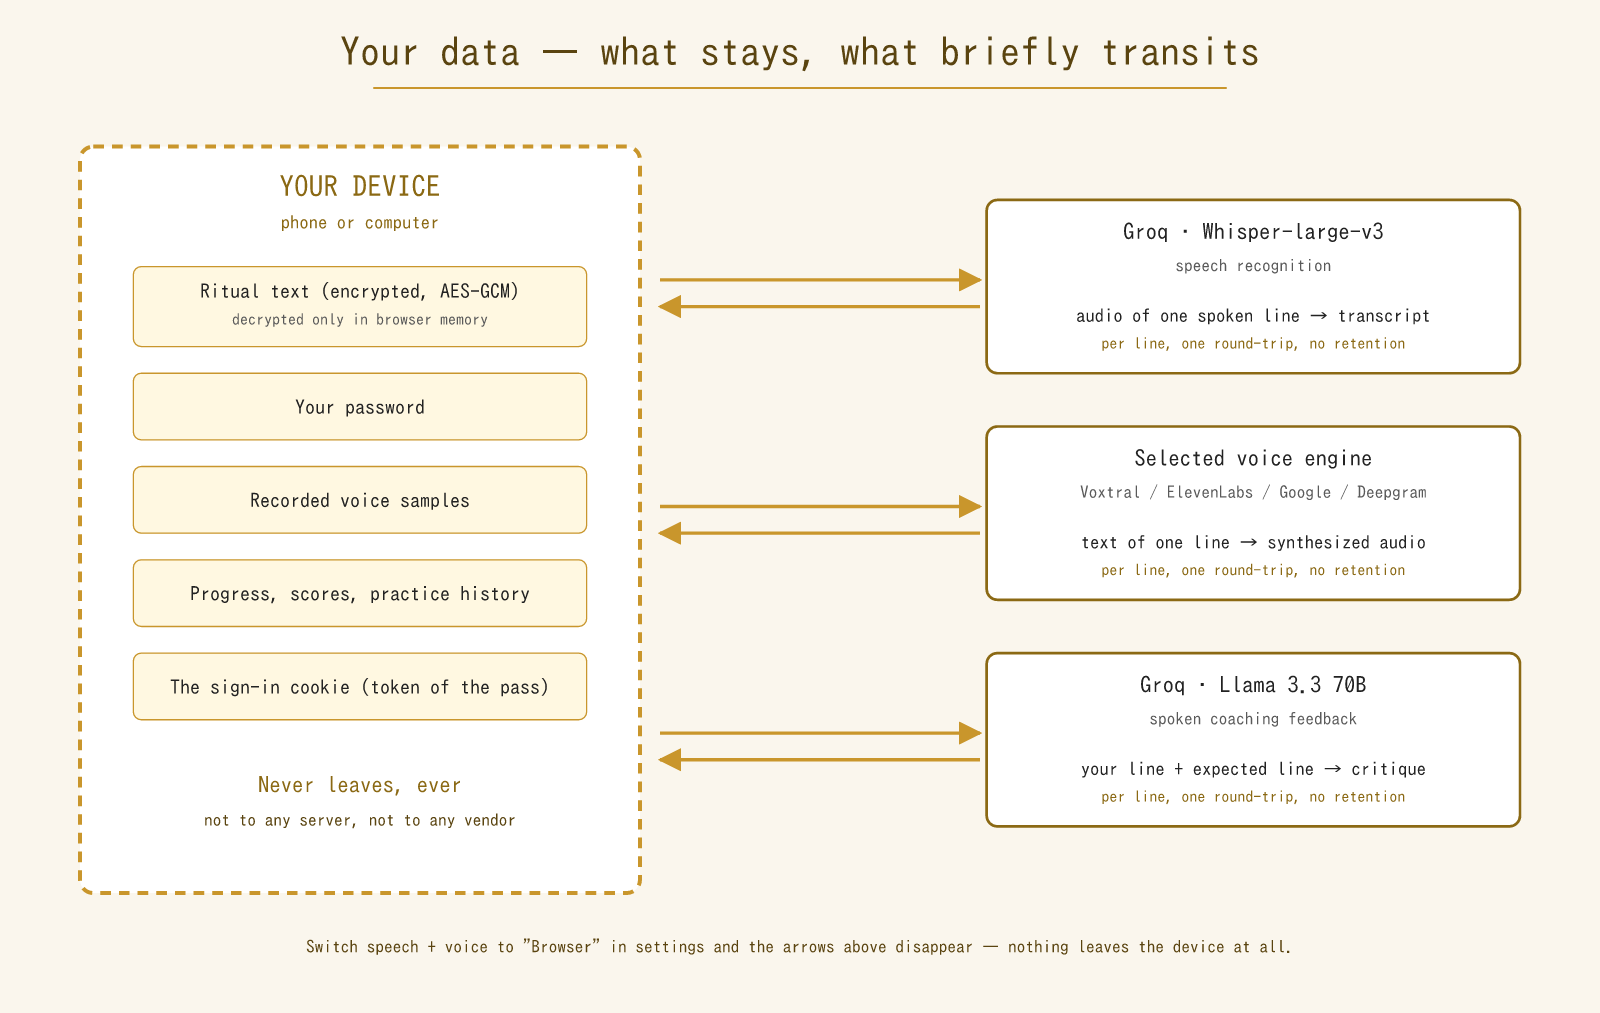
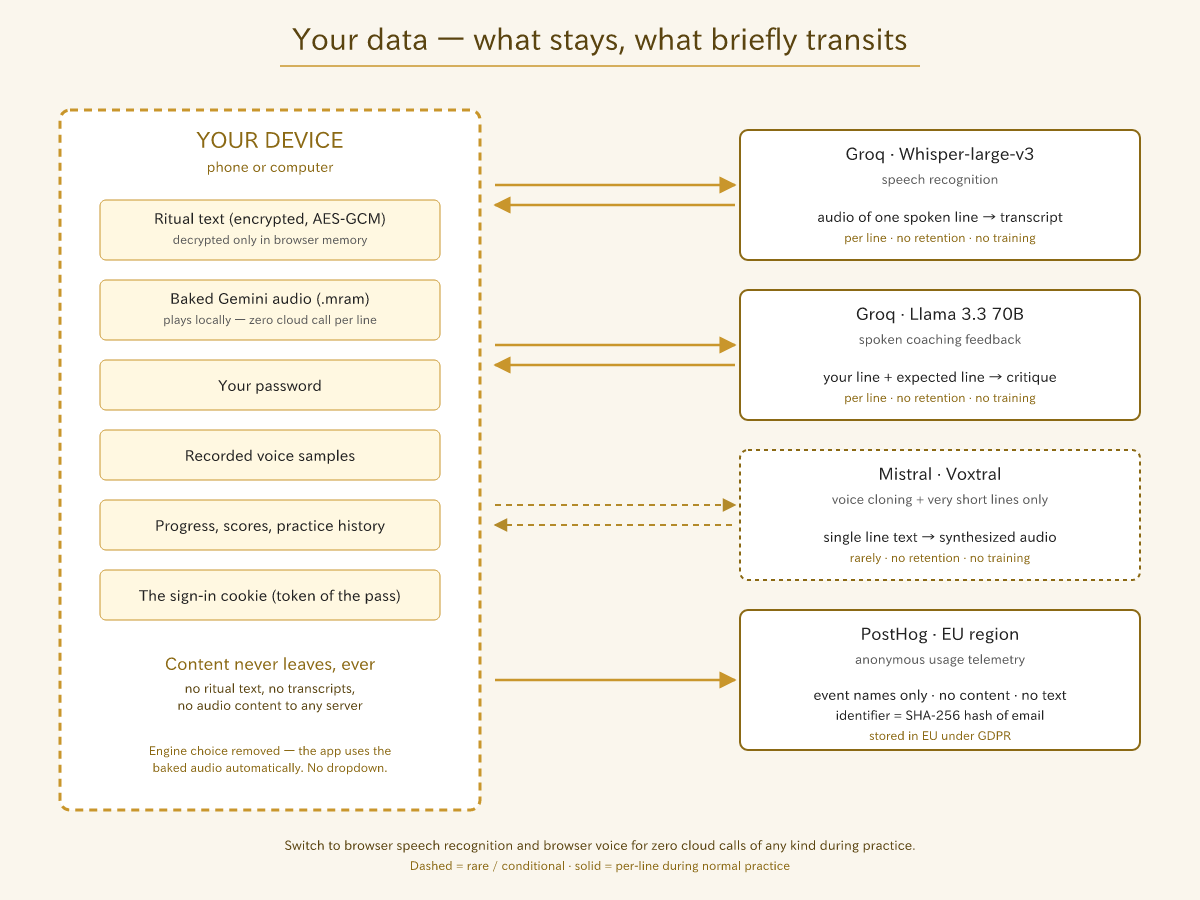
docs(pilot-email): reflect baked audio + safety floor + posthog telemetry
Email content and data-flow diagram drifted from current architecture.

Email body:
- Rewrite voice section: engine dropdown removed, Gemini audio now
  pre-baked into .mram at build time (zero cloud call during playback),
  Voxtral used only for voice-clone + very short lines
- Add anonymous usage telemetry subsection: event names only, SHA-256
  hashed email identifier, PostHog EU region
- Fix "no analytics" claim that contradicted live telemetry
- Add cost and abuse protection section: per-brother daily caps,
  burst rate limits, emergency kill-switch, daily spend-alert,
  degraded-mode banner, defense-in-depth auth
- Update "what transits the cloud" list: Groq + rare Voxtral + PostHog
- Update install-guide privacy summary and troubleshooting section

Diagram (data-flow.svg/png):
- Add "Baked Gemini audio (.mram)" to device-side items
- Replace "Selected voice engine" with Mistral Voxtral (dashed border
  and dashed arrow to signal "rare / conditional")
- Add PostHog box (one-way arrow, event names only)
- Update subtitle, footer legend

diff --git a/docs/pilot-email.html b/docs/pilot-email.html
@@ -61,21 +61,20 @@
 
 <p>When you speak, the app sends your audio to <strong>OpenAI Whisper-large-v3</strong> (running on Groq's hardware for near-instant response) with a vocabulary hint that primes the model for ritual terms — <em>Worshipful Master</em>, <em>Tyler</em>, <em>Jachin</em>, <em>Boaz</em>, <em>Fellowcraft</em>, and so on. If Whisper isn't reachable, it falls back automatically to your browser's built-in recognition.</p>
 
-<h3 style="font-family: Georgia, 'Times New Roman', serif; color: #5a4410; margin-top: 24px;">Seven voice engines, including expressive AI voices and voice cloning</h3>
+<h3 style="font-family: Georgia, 'Times New Roman', serif; color: #5a4410; margin-top: 24px;">Voice playback — baked in, not streamed</h3>
 
-<p>Any of seven text-to-speech engines can read the ritual aloud:</p>
+<p>Earlier iterations of this app let you pick from a dropdown of seven text-to-speech engines. That option is gone. The architecture got better.</p>
+
+<p>Your lodge's <code>.mram</code> file now ships with the <strong>Google Gemini 3.1 Flash TTS</strong> voice already rendered into it — each officer's lines pre-baked into audio at build time, per role, with the right cadence direction (<code>[slow, solemn]</code>, <code>[measured]</code>, and so on) embedded in the source. When you press play during rehearsal, the audio streams straight from the file on your device. <strong>No cloud voice call is made during playback.</strong> That's a stronger privacy posture than the old "pick your engine" flow, and it's faster — no network round-trip per line.</p>
+
+<p>Two narrow cases still use a live cloud voice:</p>
 
 <ul>
-  <li><strong>Google Gemini 3.1 Flash TTS</strong> <em>(default)</em> — Google's newest expressive voice model, released April 15, 2026. Per-officer male voices with prompt-driven direction (gravely, reverent, commanding). When the daily quota fills up, the app silently falls through to two older Gemini models so playback keeps working.</li>
-  <li><strong>Mistral Voxtral</strong> — supports <strong>zero-shot voice cloning</strong>. Record a short sample of a brother speaking and the app will read <em>his</em> officer's lines in <em>his</em> voice. No paid "voice clone" tier required. Ships with 15 character voices in the pool as backup.</li>
-  <li><strong>ElevenLabs</strong> — twelve distinct male voices, one per officer chair.</li>
-  <li><strong>Google Cloud Neural2</strong> — per-role voice, pitch, and rate tuning so the Worshipful Master sounds deeper than the Tyler.</li>
-  <li><strong>Deepgram Aura-2</strong> — seven mythologically-named voices (Zeus, Orion, Arcas, and so on).</li>
-  <li><strong>Kokoro</strong> — a self-hosted option with no cloud dependency.</li>
-  <li><strong>Browser built-in</strong> — always works, even offline.</li>
+  <li><strong>Voice cloning (optional).</strong> If you've recorded a short sample of a brother — say, a Past Master whose delivery you want to emulate — the app uses <strong>Mistral Voxtral</strong> to read lines in that voice. Zero-shot cloning, no paid "voice clone" tier required.</li>
+  <li><strong>Very short lines.</strong> Gemini has a minimum duration below which short phrases clip awkwardly. For those (a one-word response, a signal word), Voxtral handles synthesis on the fly and produces cleaner results on short clips.</li>
 </ul>
 
-<p>If a cloud engine is down or rate-limited, the app automatically falls through the chain (Gemini → Voxtral → Google Cloud → browser) so you never hit a dead end during practice.</p>
+<p>Gemini sits at the top of the Artificial Analysis TTS quality leaderboard (Elo 1,211), supports 70+ languages, and watermarks every clip with SynthID. The pre-baking runs on my build machine before your file is sent to you, so the API quota burn is mine, not yours.</p>
 
 <h3 style="font-family: Georgia, 'Times New Roman', serif; color: #5a4410; margin-top: 24px;">Five-layer feedback, not just text matching</h3>
 
@@ -91,16 +90,13 @@
 
 <p>After the diff, a large language model (Llama 3.3 70B via Groq) generates a short spoken coaching response — brief, contextual, and streamed to you as you listen.</p>
 
-<h3 style="font-family: Georgia, 'Times New Roman', serif; color: #5a4410; margin-top: 24px;">Why Gemini is now the default voice — and what's still coming</h3>
+<h3 style="font-family: Georgia, 'Times New Roman', serif; color: #5a4410; margin-top: 24px;">Why delivery matters — and how Gemini solves it</h3>
 
-<p>Today's default voice engine fixes the one thing earlier text-to-speech still got wrong for ritual work: <em>delivery.</em> A flat, evenly-paced reading is fine for a shopping list — it is not fine for the gravitas of an obligation or the cadence of a lecture.</p>
+<p>Gemini fixes the one thing earlier text-to-speech still got wrong for ritual work: <em>delivery.</em> A flat, evenly-paced reading is fine for a shopping list — it's not fine for the gravitas of an obligation or the cadence of a lecture.</p>
 
-<ul>
-  <li><strong>Google Gemini 3.1 Flash TTS</strong> (now shipping as the app's default). Google released this model on April 15, 2026 — a few days before this email went out. It accepts inline <em>audio tags</em> — short bracketed directions like <code>[slow, solemn]</code> or <code>[whispered]</code> — that steer style, pace, and emotion at any point mid-sentence. That means the ritual text itself can pre-mark the cadence shifts the work already calls for, and the voice engine will honor them. It currently sits at the top of the Artificial Analysis TTS quality leaderboard (Elo 1,211), supports 70+ languages, and watermarks every clip with SynthID.</li>
-  <li><strong>Microsoft Azure Dragon HD / Neural HD 2.5</strong> (rolling out early-to-mid 2026 — not yet wired in). Microsoft's new HD line is LLM-based: the model reads the <em>meaning</em> of each line and adjusts emotional tone automatically — measured pause at a solemn passage, lift at a welcome, weight at a charge — without any manual markup at all. A unified model covering 700+ voices, with wider availability and a significant price drop arriving in March 2026. We will add it to the seven-engine dropdown when the public API lands.</li>
-</ul>
+<p>Gemini 3.1 Flash TTS (released April 15, 2026) accepts inline <em>audio tags</em> — short bracketed directions like <code>[slow, solemn]</code> or <code>[whispered]</code> — that steer style, pace, and emotion at any point mid-sentence. The ritual source pre-marks the cadence shifts the work already calls for, and the voice engine honors them. The result is a reading that actually sounds like a Brother doing the work, not a satnav reciting an obligation.</p>
 
-<p>Gemini is live in the dropdown today and serves as the playback engine for every officer line by default. Voxtral, ElevenLabs, Deepgram, Google Cloud, Kokoro, and the browser engine are still selectable as alternatives or fallbacks — the ritual will <em>sound</em> like ritual either way.</p>
+<p><strong>Coming later:</strong> Microsoft's Azure Dragon HD / Neural HD 2.5 (rolling out mid-2026) is LLM-based — the model reads the <em>meaning</em> of each line and adjusts emotional tone automatically, no manual markup needed. When the public API lands I'll rebuild the .mram files against it and you'll get the upgrade for free by re-downloading your ritual file.</p>
 
 <h2 style="font-family: Georgia, 'Times New Roman', serif; color: #8b6914; border-bottom: 1px solid #c9962c; padding-bottom: 6px; margin-top: 32px;">Your data — what leaves your device, and what doesn't</h2>
 
@@ -116,7 +112,18 @@
   <li><strong>The ritual text itself.</strong> Encrypted with <strong>AES-GCM</strong> via the browser's Web Crypto API and stored in your device's local IndexedDB. Decrypted only in memory while you are practicing. Never written to disk unencrypted. <strong>Never sent to any server, at any time, for any reason.</strong></li>
   <li><strong>Your password.</strong> Used to derive the decryption key right there in your browser. Never transmitted anywhere.</li>
   <li><strong>Any voice samples you record</strong> for the voice-cloning feature. Kept locally in IndexedDB.</li>
-  <li><strong>Your progress, scores, and practice history.</strong> Local only. No analytics.</li>
+  <li><strong>Your progress, scores, and practice history.</strong> Stored locally in your browser only. The <em>content</em> of your practice — which line you were on, what you said, what score you got — never leaves your device.</li>
+</ul>
+
+<h3 style="font-family: Georgia, 'Times New Roman', serif; color: #5a4410; margin-top: 24px;">Anonymous usage telemetry — event names only, no content</h3>
+
+<p>The app records a small, anonymized stream of <em>usage events</em> — things like "a rehearsal started," "a ritual file was uploaded," "a coaching response was played" — so I can see whether the pilot is being used and catch errors early. This stream is deliberately constructed to carry <strong>no ritual content of any kind</strong>:</p>
+
+<ul>
+  <li><strong>Event names only.</strong> A fixed TypeScript-enforced list of event labels like <code>rehearsal_completed</code>, <code>line_attempted</code>, <code>feedback_stream_error</code>. The event payload has no free-text fields. It is structurally impossible to leak ritual text through it.</li>
+  <li><strong>Hashed email identifier.</strong> Your email is one-way-hashed (SHA-256) before it is sent. The telemetry sees a string of gibberish characters that can be compared across events ("this is the same brother") but cannot be reversed back to the email.</li>
+  <li><strong>Hosted in the EU.</strong> The telemetry vendor is PostHog, and the pilot uses their EU region (<code>eu.i.posthog.com</code>) — data stays in Europe under GDPR.</li>
+  <li><strong>No transcripts, no ritual text, no audio.</strong> The paid cloud services (Groq, and Mistral Voxtral for the voice-clone case) see the specific line you just spoke for a second while they answer the request, then discard it under a no-retention contract. The telemetry stream sees <em>only</em> the event that a rehearsal happened — never what was said.</li>
 </ul>
 
 <h3 style="font-family: Georgia, 'Times New Roman', serif; color: #5a4410; margin-top: 24px;">The sign-in cookie — the token of the pass</h3>
@@ -154,11 +161,11 @@
 
 <ul>
   <li><strong>The audio of the line you just spoke</strong> — sent to Groq's Whisper service to transcribe. A few seconds of audio per line.</li>
-  <li><strong>The text of the line about to be spoken</strong> — sent to whichever voice engine you have selected (Voxtral, ElevenLabs, Google, or Deepgram) to synthesize the sound. A single sentence at a time.</li>
   <li><strong>Your transcribed line and the expected line</strong> — sent to Groq's Llama service for the spoken coaching feedback.</li>
+  <li><strong>(Rarely) the text of a single line</strong> — sent to Mistral Voxtral only when you're using a voice-clone or the line is too short for the baked Gemini audio. Most lines play from the pre-baked audio in your <code>.mram</code> file and make no cloud call at all.</li>
 </ul>
 
-<p>Each of these is a single round-trip per line, answered in under a second, and the cloud service does not keep it. All four vendors — <strong>Groq, Mistral, Google Cloud, and Deepgram</strong> — contractually guarantee no retention and no training on request data. No one at those companies sees or stores your ritual.</p>
+<p>Each of these is a single round-trip per line, answered in under a second, and the cloud service does not keep it. <strong>Groq</strong> and <strong>Mistral</strong> — the two vendors the rehearsal flow actually calls — contractually guarantee no retention and no training on request data. No one at those companies sees or stores your ritual. The anonymous usage telemetry above also goes to <strong>PostHog</strong> (EU region), which does store its data but only sees event names, never content.</p>
 
 <h3 style="font-family: Georgia, 'Times New Roman', serif; color: #5a4410; margin-top: 24px;">For complete on-device privacy</h3>
 
@@ -170,6 +177,21 @@
 </ul>
 
 <p>With these two selected, <strong>nothing — not audio, not text, not feedback — ever leaves your device.</strong> The voices are less natural and the recognition is a little less accurate, but the privacy guarantee is absolute.</p>
+
+<h2 style="font-family: Georgia, 'Times New Roman', serif; color: #8b6914; border-bottom: 1px solid #c9962c; padding-bottom: 6px; margin-top: 32px;">Cost and abuse protection — practice freely, without the app exploding</h2>
+
+<p>The transcription and coaching feedback use paid cloud services (Groq, occasionally Mistral). Without guardrails, a single compromised sign-in cookie could run up a bill fast. Several layers keep that from happening:</p>
+
+<ul>
+  <li><strong>Per-brother daily caps.</strong> Each sign-in gets a generous daily quota of transcription and coaching calls — enough to rehearse as hard as any brother should ever want to — after which the app pauses further paid calls until midnight. You will never see this unless you actively try to hit it.</li>
+  <li><strong>Short-burst rate limits.</strong> On top of the daily cap, a separate counter prevents rapid-fire abuse (e.g. a script hammering the feedback endpoint in a loop). Normal human pacing doesn't come close.</li>
+  <li><strong>Emergency kill-switch.</strong> A single environment setting I control turns every paid feature off site-wide in seconds. If an API key leaks, if costs spike unexpectedly, if anything goes sideways, the app gracefully degrades to browser-only voice and browser-only speech recognition — the work still goes on, just without cloud polish — while I investigate.</li>
+  <li><strong>Daily spend-alert email.</strong> An automated job runs once a day and emails me if spending has crossed a threshold. I find out before anything gets out of hand, not after.</li>
+  <li><strong>Degraded-mode banner.</strong> If any cloud service is down, throttled, or returning errors, the app shows a clear banner explaining what's happening and automatically falls back to the baked voice / browser speech recognition. You never hit a silent dead-end mid-practice.</li>
+  <li><strong>Defense-in-depth.</strong> Every paid endpoint re-verifies your sign-in cookie itself, in addition to the gateway check that happens earlier in the request. A future bug in the gateway cannot accidentally expose paid routes to anonymous traffic.</li>
+</ul>
+
+<p>The practical upshot: you can use the app hard and I won't need to beg for donations.</p>
 
 <h2 style="font-family: Georgia, 'Times New Roman', serif; color: #8b6914; border-bottom: 1px solid #c9962c; padding-bottom: 6px; margin-top: 32px;">See the code for yourself</h2>
 
@@ -316,8 +338,9 @@
   <li>Your ritual file is encrypted. Without the password, it cannot be read.</li>
   <li>Decryption happens in your browser, on your device. The server never sees the decrypted ritual.</li>
   <li>The app never stores your ritual on any server, ever.</li>
-  <li>When you speak a line and the app evaluates it, or if it needs to read a line with a cloud voice it hasn't played before, small pieces of text and audio are sent briefly to voice/AI services (Google Gemini, Voxtral, Groq). These services have no-retention policies — they do not save or train on the data.</li>
-  <li>For this pilot, most ritual audio is pre-rendered and embedded inside your <code>.mram</code> file. When the app plays a line from a baked file, no cloud service is called at all — the audio is already on your device.</li>
+  <li>Most ritual audio is pre-rendered (at build time) and embedded inside your <code>.mram</code> file. When the app plays a baked line, <strong>no cloud service is called at all</strong> — the audio is already on your device.</li>
+  <li>When you speak a line, the audio goes briefly to Groq for transcription and coaching feedback. For voice cloning or very short lines, Mistral Voxtral may synthesize a single clip. Both vendors operate under no-retention, no-training contracts — they do not save the request.</li>
+  <li>A small anonymous usage telemetry stream (event names only, no content, hashed identifier) goes to PostHog EU so I can see the pilot is being used and catch errors early.</li>
 </ul>
 
 <h2 style="font-family: Georgia, 'Times New Roman', serif; color: #8b6914; border-bottom: 1px solid #c9962c; padding-bottom: 6px; margin-top: 32px;">Troubleshooting</h2>
@@ -330,7 +353,7 @@
 
 <p><strong>Ritual file won't decrypt.</strong> Check the password carefully (it's case-sensitive). If the file itself is corrupted, I'll re-send.</p>
 
-<p><strong>AI voice or feedback isn't working.</strong> Try a different voice engine from the dropdown at the top of the rehearsal screen. If none of the cloud engines work, fall back to the <strong>Browser</strong> voice — it's less natural but always works.</p>
+<p><strong>AI voice or feedback isn't working.</strong> If you see a degraded-mode banner at the top of the screen, it means a cloud service is temporarily down or throttled — the app has automatically switched to the pre-baked audio (for voice) and browser-native speech recognition (for transcription), so practice continues without cloud polish. If you're not sure whether the pre-baked audio is playing, the rehearsal screen will still advance line by line normally. If something still seems wrong, reply to this email and tell me what you're seeing.</p>
 
 <hr style="border: none; border-top: 1px solid #d9cfb5; margin: 32px 0;">
 
